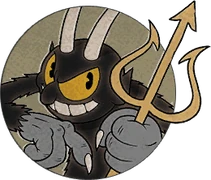
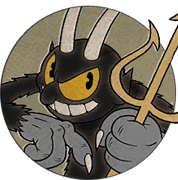
moble ui + auto select + better image crop

diff --git a/script.js b/script.js
@@ -255,13 +255,39 @@ function opensetting(){
 
 function toggleTick(element, settingKey, value) {
     element.classList.toggle('active');
-    
+
     if (element.classList.contains('active')) {
         if (!settings[settingKey].includes(value)) {
             settings[settingKey].push(value);
         }
     } else {
         settings[settingKey] = settings[settingKey].filter(v => v !== value);
+
+        const allOptions = {
+            isles: [1, 2, 3, 4, 5],
+            bossTypes: ['G', 'A'],
+            challengeDifficulties: ['easy', 'medium', 'hard'],
+            weaponTypes: ['main', 'dlc'],
+            charmTypes: ['main', 'dlc']
+        };
+
+        const optionElementIds = {
+            isles: ['isle1', 'isle2', 'isle3', 'isle4', 'isle5'],
+            bossTypes: ['typeground', 'typeaerial'],
+            challengeDifficulties: ['diffeasy', 'diffmedium', 'diffhard'],
+            weaponTypes: ['weaponmain', 'weapondlc'],
+            charmTypes: ['charmmain', 'charmdlc']
+        };
+
+        if (Array.isArray(settings[settingKey]) && settings[settingKey].length === 0) {
+            settings[settingKey] = Array.isArray(allOptions[settingKey]) ? [...allOptions[settingKey]] : [];
+
+            const ids = optionElementIds[settingKey] || [];
+            ids.forEach(id => {
+                const el = document.getElementById(id);
+                if (el && !el.classList.contains('active')) el.classList.add('active');
+            });
+        }
     }
 }
 

diff --git a/style.css b/style.css
@@ -179,8 +179,8 @@ body {
 }
 
 #bosslogo img {
-    width: 110%;
-    height: 110%;
+    width: 108%;
+    height: 108%;
     object-fit: cover;
     border-radius: 50%;
     display: block;
@@ -243,10 +243,12 @@ body {
     }
 
     #loadoutinfo h2{
-        font-size: 24px;
+        font-size: 22px;
     }
 
     .tickrow{width: 45%}
+    .ltext{width: 85%;}
+
 }
 
 @media screen and (max-width: 750px){
